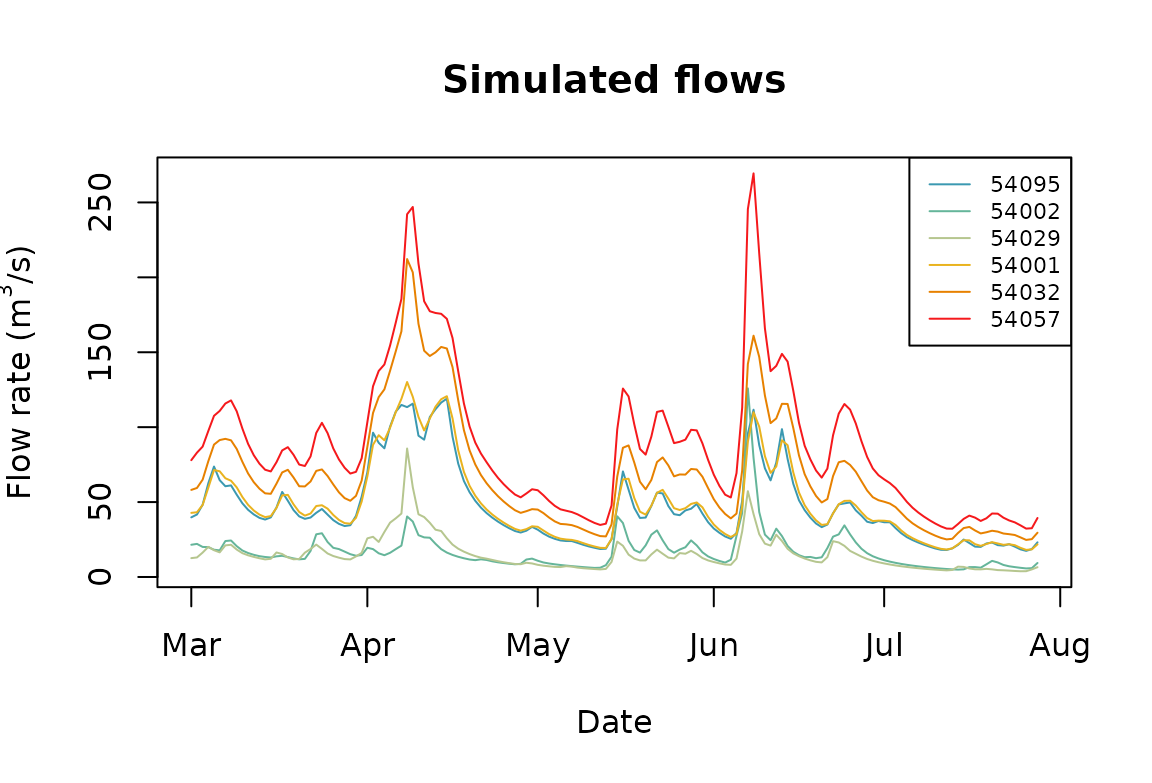
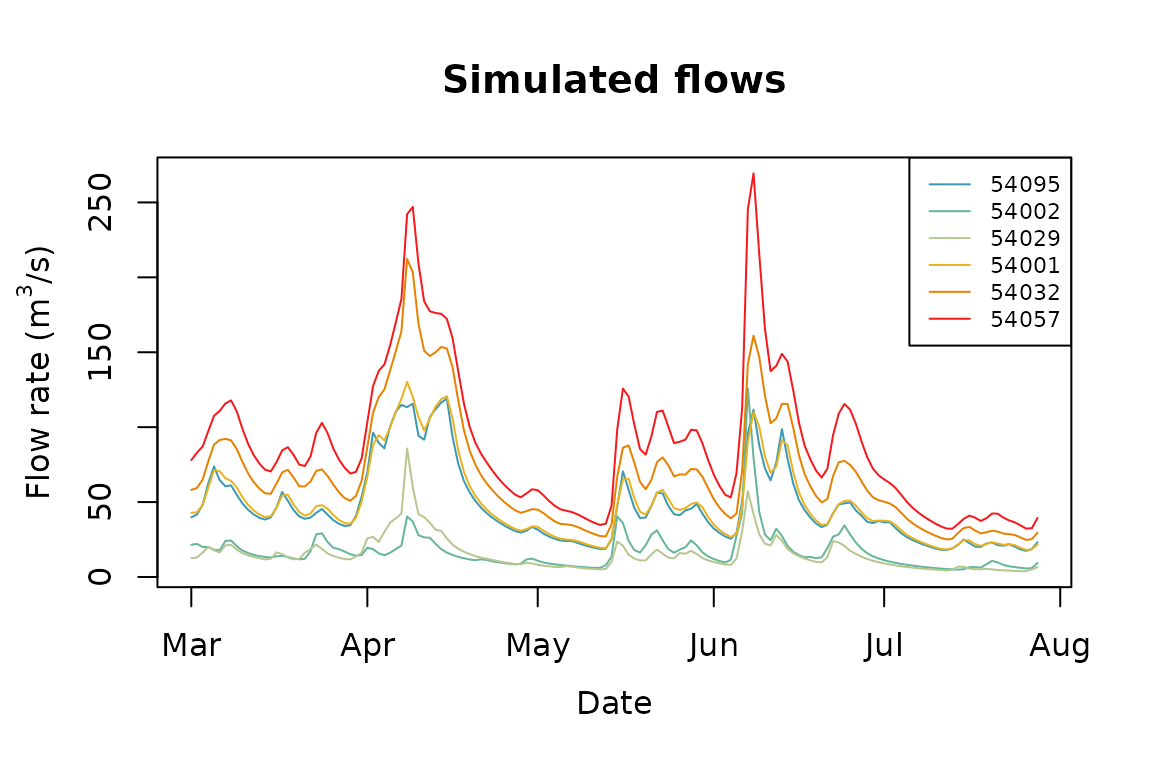
Deploying to gh-pages from @ inrae/airGRiwrm@dd845ad1c4ce55d06f285f82d5235b8c9ff8b56b 🚀

Changed region(s): [[0.0, 0.3065, 0.0625, 0.6437], [0.5, 0.8889, 0.5625, 0.9502]]

diff --git a/dev/reference/RunModel.GRiwrmInputsModel.html b/dev/reference/RunModel.GRiwrmInputsModel.html
@@ -160,8 +160,14 @@
 </dl></div>
     <div id="value">
     <h2>Value</h2>
-    <p>An object of class <em>GRiwrmOutputsModel</em>. This object is a <a href="https://rdrr.io/r/base/list.html" class="external-link">list</a> of <em>OutputsModel</em> objects produced by <a href="RunModel.InputsModel.html">RunModel.InputsModel</a> for each node of the semi-distributed model.</p>
-    </div>
+    <p>An object of class <em>GRiwrmOutputsModel</em>.
+This object is a <a href="https://rdrr.io/r/base/list.html" class="external-link">list</a> of <em>OutputsModel</em> objects produced by <a href="RunModel.InputsModel.html">RunModel.InputsModel</a>
+for each node of the semi-distributed model.</p>
+<p>It also contains the following attributes (see <a href="https://rdrr.io/r/base/attr.html" class="external-link">attr</a>):</p><ul><li><p>"Qm3s": a <a href="https://rdrr.io/r/base/data.frame.html" class="external-link">data.frame</a> containing the dates of simulation and one column by node
+with the simulated flows in cubic meters per seconds (See <a href="plot.Qm3s.html">plot.Qm3s</a>)</p></li>
+<li><p>"GRiwrm":  a copy of the <em>GRiwrm</em> object produced by <a href="CreateGRiwrm.html">CreateGRiwrm</a> and used for the simulation</p></li>
+<li><p>"TimeStep":  time step of the simulation in seconds</p></li>
+</ul></div>
     <div id="see-also">
     <h2>See also</h2>
     <div class="dont-index"><p><code><a href="CreateGRiwrm.html">CreateGRiwrm()</a></code>, <code><a href="CreateInputsModel.GRiwrm.html">CreateInputsModel.GRiwrm()</a></code>, <code><a href="CreateRunOptions.html">CreateRunOptions()</a></code></p></div>
@@ -545,7 +551,7 @@
 <span class="r-in"><span><span class="fu"><a href="https://rdrr.io/r/base/names.html" class="external-link">names</a></span><span class="op">(</span><span class="va">df54001</span><span class="op">)</span> <span class="op">&lt;-</span> <span class="fu"><a href="https://rdrr.io/r/base/c.html" class="external-link">c</a></span><span class="op">(</span><span class="st">"DatesR"</span>, <span class="st">"54001 with irrigation"</span>, <span class="st">"54001 natural flow"</span><span class="op">)</span></span></span>
 <span class="r-in"><span><span class="va">df54001</span> <span class="op">&lt;-</span> <span class="fu"><a href="as.Qm3s.html">as.Qm3s</a></span><span class="op">(</span><span class="va">df54001</span><span class="op">)</span></span></span>
 <span class="r-in"><span><span class="fu"><a href="https://rdrr.io/r/graphics/plot.default.html" class="external-link">plot</a></span><span class="op">(</span><span class="va">df54001</span>, ylim <span class="op">=</span> <span class="fu"><a href="https://rdrr.io/r/base/c.html" class="external-link">c</a></span><span class="op">(</span><span class="fl">0</span>,<span class="fl">70</span><span class="op">)</span><span class="op">)</span></span></span>
-<span class="r-in"><span><span class="fu"><a href="https://rdrr.io/r/graphics/abline.html" class="external-link">abline</a></span><span class="op">(</span>h <span class="op">=</span> <span class="fl">12</span>, col <span class="op">=</span> <span class="st">"green"</span><span class="op">)</span></span></span>
+<span class="r-in"><span><span class="fu"><a href="https://rdrr.io/r/graphics/abline.html" class="external-link">abline</a></span><span class="op">(</span>h <span class="op">=</span> <span class="fl">12</span>, col <span class="op">=</span> <span class="st">"green"</span>, lty <span class="op">=</span> <span class="st">"dotted"</span><span class="op">)</span></span></span>
 <span class="r-plt img"><img src="RunModel.GRiwrmInputsModel-7.png" alt="" width="700" height="433"></span>
 <span class="r-in"><span><span class="fu"><a href="https://rdrr.io/r/graphics/par.html" class="external-link">par</a></span><span class="op">(</span><span class="va">oldpar</span><span class="op">)</span></span></span>
 </code></pre></div>

diff --git a/dev/reference/plot.Qm3s.html b/dev/reference/plot.Qm3s.html
@@ -151,6 +151,7 @@ as a function <code>plot.Qm3s</code> if the first parameter has the good format.
 <span>  legend.x <span class="op">=</span> <span class="st">"topright"</span>,</span>
 <span>  legend.y <span class="op">=</span> <span class="cn">NULL</span>,</span>
 <span>  lty <span class="op">=</span> <span class="fl">1</span>,</span>
+<span>  mgp <span class="op">=</span> <span class="fu"><a href="https://rdrr.io/r/base/c.html" class="external-link">c</a></span><span class="op">(</span><span class="fl">2.5</span>, <span class="fl">1</span>, <span class="fl">0</span><span class="op">)</span>,</span>
 <span>  <span class="va">...</span></span>
 <span><span class="op">)</span></span></code></pre></div>
     </div>
@@ -199,6 +200,10 @@ to hide the legend</p></dd>
 
 <dt id="arg-lty">lty<a class="anchor" aria-label="anchor" href="#arg-lty"></a></dt>
 <dd><p><a href="https://rdrr.io/r/base/character.html" class="external-link">character</a> or <a href="https://rdrr.io/r/base/numeric.html" class="external-link">numeric</a> The line type (See <a href="https://rdrr.io/r/graphics/par.html" class="external-link">par</a>)</p></dd>
+
+
+<dt id="arg-mgp">mgp<a class="anchor" aria-label="anchor" href="#arg-mgp"></a></dt>
+<dd><p>The margin line for the axis title, axis labels and axis line (See <a href="https://rdrr.io/r/graphics/par.html" class="external-link">par</a>)</p></dd>
 
 
 <dt id="arg--">...<a class="anchor" aria-label="anchor" href="#arg--"></a></dt>
@@ -588,7 +593,7 @@ to hide the legend</p></dd>
 <span class="r-in"><span><span class="fu"><a href="https://rdrr.io/r/base/names.html" class="external-link">names</a></span><span class="op">(</span><span class="va">df54001</span><span class="op">)</span> <span class="op">&lt;-</span> <span class="fu"><a href="https://rdrr.io/r/base/c.html" class="external-link">c</a></span><span class="op">(</span><span class="st">"DatesR"</span>, <span class="st">"54001 with irrigation"</span>, <span class="st">"54001 natural flow"</span><span class="op">)</span></span></span>
 <span class="r-in"><span><span class="va">df54001</span> <span class="op">&lt;-</span> <span class="fu"><a href="as.Qm3s.html">as.Qm3s</a></span><span class="op">(</span><span class="va">df54001</span><span class="op">)</span></span></span>
 <span class="r-in"><span><span class="fu"><a href="https://rdrr.io/r/graphics/plot.default.html" class="external-link">plot</a></span><span class="op">(</span><span class="va">df54001</span>, ylim <span class="op">=</span> <span class="fu"><a href="https://rdrr.io/r/base/c.html" class="external-link">c</a></span><span class="op">(</span><span class="fl">0</span>,<span class="fl">70</span><span class="op">)</span><span class="op">)</span></span></span>
-<span class="r-in"><span><span class="fu"><a href="https://rdrr.io/r/graphics/abline.html" class="external-link">abline</a></span><span class="op">(</span>h <span class="op">=</span> <span class="fl">12</span>, col <span class="op">=</span> <span class="st">"green"</span><span class="op">)</span></span></span>
+<span class="r-in"><span><span class="fu"><a href="https://rdrr.io/r/graphics/abline.html" class="external-link">abline</a></span><span class="op">(</span>h <span class="op">=</span> <span class="fl">12</span>, col <span class="op">=</span> <span class="st">"green"</span>, lty <span class="op">=</span> <span class="st">"dotted"</span><span class="op">)</span></span></span>
 <span class="r-plt img"><img src="plot.Qm3s-7.png" alt="" width="700" height="433"></span>
 <span class="r-in"><span><span class="fu"><a href="https://rdrr.io/r/graphics/par.html" class="external-link">par</a></span><span class="op">(</span><span class="va">oldpar</span><span class="op">)</span></span></span>
 </code></pre></div>

diff --git a/dev/reference/RunModel.InputsModel.html b/dev/reference/RunModel.InputsModel.html
@@ -168,18 +168,16 @@
 </dl></div>
     <div id="value">
     <h2>Value</h2>
-    <p>[list] see <code><a href="https://rdrr.io/pkg/airGR/man/RunModel_GR4J.html" class="external-link">RunModel_GR4J</a></code> or <code><a href="https://rdrr.io/pkg/airGR/man/RunModel_CemaNeigeGR4J.html" class="external-link">RunModel_CemaNeigeGR4J</a></code> for details.</p>
-<p>If <code>InputsModel</code> parameter has been created for using a semi-distributed (SD) lag model (See <code><a href="https://rdrr.io/pkg/airGR/man/CreateInputsModel.html" class="external-link">CreateInputsModel</a></code>), the list value contains an extra item named <code>QsimDown</code> which is a numeric series of simulated discharge [mm/time step] related to the run-off contribution of the downstream sub-catchment.</p>
-    </div>
-    <div id="details">
-    <h2>Details</h2>
-    <p>This function calls <a href="https://rdrr.io/pkg/airGR/man/RunModel.html" class="external-link">airGR::RunModel</a> (See <a href="https://rdrr.io/pkg/airGR/man/RunModel.html" class="external-link">airGR::RunModel</a> for further details).</p>
-<p>The list produced by the function (See Value section of <a href="https://rdrr.io/pkg/airGR/man/RunModel_GR4J.html" class="external-link">airGR::RunModel_GR4J</a>)
-is here completed by:</p><ul><li><p>an item <code>$Qsim_m3</code> storing the simulated discharge series in m3/s</p></li>
-<li><p>an item <code>$Qover_m3</code> storing the volumes of over abstraction which occurs
-when <code>RunModel_Lag</code> warns for negative simulated flows. The latter reflects the volume
-that was planned to be drawn from the sub-basin but could not be drawn because
-of the lack of water.</p></li>
+    <p>[object of class <em>OutputsModel</em>] returned by <a href="https://rdrr.io/pkg/airGR/man/RunModel.html" class="external-link">airGR::RunModel</a>
+(See Value section of <a href="https://rdrr.io/pkg/airGR/man/RunModel_GR4J.html" class="external-link">airGR::RunModel_GR4J</a>) completed by new items:</p><ul><li><p><code>Qsim_m3</code>: simulated flow in cubic meters per time step</p></li>
+<li><p><code>Qover_m3</code> volumes of over abstractions which occurs when <code>RunModel_Lag</code> warns
+for negative simulated flows</p></li>
+<li><p><code>Qnat</code>: only present in case of Diversion in the node, simulated flow in mm
+per time step before application of the Diversion</p></li>
+<li><p><code>Qdiv_m3</code>: only present in case of Diversion in the node, simulated diverted flow in
+cubic meters per time step. The latter differs from the flows time series provided
+in argument <code>Qinf</code> of <a href="CreateInputsModel.GRiwrm.html">CreateInputsModel.GRiwrm</a> by the limitation of diversion
+applied by the minimum flow threshold <code>Qmin</code> to keep flowing in the river</p></li>
 </ul></div>
 
   </div>

diff --git a/dev/reference/plot.GRiwrmOutputsModel.html b/dev/reference/plot.GRiwrmOutputsModel.html
@@ -543,7 +543,7 @@ by hydrological model output named with the node ID (See <a href="CreateGRiwrm.h
 <span class="r-in"><span><span class="fu"><a href="https://rdrr.io/r/base/names.html" class="external-link">names</a></span><span class="op">(</span><span class="va">df54001</span><span class="op">)</span> <span class="op">&lt;-</span> <span class="fu"><a href="https://rdrr.io/r/base/c.html" class="external-link">c</a></span><span class="op">(</span><span class="st">"DatesR"</span>, <span class="st">"54001 with irrigation"</span>, <span class="st">"54001 natural flow"</span><span class="op">)</span></span></span>
 <span class="r-in"><span><span class="va">df54001</span> <span class="op">&lt;-</span> <span class="fu"><a href="as.Qm3s.html">as.Qm3s</a></span><span class="op">(</span><span class="va">df54001</span><span class="op">)</span></span></span>
 <span class="r-in"><span><span class="fu"><a href="https://rdrr.io/r/graphics/plot.default.html" class="external-link">plot</a></span><span class="op">(</span><span class="va">df54001</span>, ylim <span class="op">=</span> <span class="fu"><a href="https://rdrr.io/r/base/c.html" class="external-link">c</a></span><span class="op">(</span><span class="fl">0</span>,<span class="fl">70</span><span class="op">)</span><span class="op">)</span></span></span>
-<span class="r-in"><span><span class="fu"><a href="https://rdrr.io/r/graphics/abline.html" class="external-link">abline</a></span><span class="op">(</span>h <span class="op">=</span> <span class="fl">12</span>, col <span class="op">=</span> <span class="st">"green"</span><span class="op">)</span></span></span>
+<span class="r-in"><span><span class="fu"><a href="https://rdrr.io/r/graphics/abline.html" class="external-link">abline</a></span><span class="op">(</span>h <span class="op">=</span> <span class="fl">12</span>, col <span class="op">=</span> <span class="st">"green"</span>, lty <span class="op">=</span> <span class="st">"dotted"</span><span class="op">)</span></span></span>
 <span class="r-plt img"><img src="plot.GRiwrmOutputsModel-7.png" alt="" width="700" height="433"></span>
 <span class="r-in"><span><span class="fu"><a href="https://rdrr.io/r/graphics/par.html" class="external-link">par</a></span><span class="op">(</span><span class="va">oldpar</span><span class="op">)</span></span></span>
 </code></pre></div>

diff --git a/dev/reference/CreateInputsModel.GRiwrm.html b/dev/reference/CreateInputsModel.GRiwrm.html
@@ -659,7 +659,7 @@ a time step defined in <code>DatesR</code>).</p>
 <span class="r-in"><span><span class="fu"><a href="https://rdrr.io/r/base/names.html" class="external-link">names</a></span><span class="op">(</span><span class="va">df54001</span><span class="op">)</span> <span class="op">&lt;-</span> <span class="fu"><a href="https://rdrr.io/r/base/c.html" class="external-link">c</a></span><span class="op">(</span><span class="st">"DatesR"</span>, <span class="st">"54001 with irrigation"</span>, <span class="st">"54001 natural flow"</span><span class="op">)</span></span></span>
 <span class="r-in"><span><span class="va">df54001</span> <span class="op">&lt;-</span> <span class="fu"><a href="as.Qm3s.html">as.Qm3s</a></span><span class="op">(</span><span class="va">df54001</span><span class="op">)</span></span></span>
 <span class="r-in"><span><span class="fu"><a href="https://rdrr.io/r/graphics/plot.default.html" class="external-link">plot</a></span><span class="op">(</span><span class="va">df54001</span>, ylim <span class="op">=</span> <span class="fu"><a href="https://rdrr.io/r/base/c.html" class="external-link">c</a></span><span class="op">(</span><span class="fl">0</span>,<span class="fl">70</span><span class="op">)</span><span class="op">)</span></span></span>
-<span class="r-in"><span><span class="fu"><a href="https://rdrr.io/r/graphics/abline.html" class="external-link">abline</a></span><span class="op">(</span>h <span class="op">=</span> <span class="fl">12</span>, col <span class="op">=</span> <span class="st">"green"</span><span class="op">)</span></span></span>
+<span class="r-in"><span><span class="fu"><a href="https://rdrr.io/r/graphics/abline.html" class="external-link">abline</a></span><span class="op">(</span>h <span class="op">=</span> <span class="fl">12</span>, col <span class="op">=</span> <span class="st">"green"</span>, lty <span class="op">=</span> <span class="st">"dotted"</span><span class="op">)</span></span></span>
 <span class="r-plt img"><img src="CreateInputsModel.GRiwrm-7.png" alt="" width="700" height="433"></span>
 <span class="r-in"><span><span class="fu"><a href="https://rdrr.io/r/graphics/par.html" class="external-link">par</a></span><span class="op">(</span><span class="va">oldpar</span><span class="op">)</span></span></span>
 </code></pre></div>

diff --git a/dev/reference/CreateRunOptions.html b/dev/reference/CreateRunOptions.html
@@ -569,7 +569,7 @@ sub-catchments of the network.</p>
 <span class="r-in"><span><span class="fu"><a href="https://rdrr.io/r/base/names.html" class="external-link">names</a></span><span class="op">(</span><span class="va">df54001</span><span class="op">)</span> <span class="op">&lt;-</span> <span class="fu"><a href="https://rdrr.io/r/base/c.html" class="external-link">c</a></span><span class="op">(</span><span class="st">"DatesR"</span>, <span class="st">"54001 with irrigation"</span>, <span class="st">"54001 natural flow"</span><span class="op">)</span></span></span>
 <span class="r-in"><span><span class="va">df54001</span> <span class="op">&lt;-</span> <span class="fu"><a href="as.Qm3s.html">as.Qm3s</a></span><span class="op">(</span><span class="va">df54001</span><span class="op">)</span></span></span>
 <span class="r-in"><span><span class="fu"><a href="https://rdrr.io/r/graphics/plot.default.html" class="external-link">plot</a></span><span class="op">(</span><span class="va">df54001</span>, ylim <span class="op">=</span> <span class="fu"><a href="https://rdrr.io/r/base/c.html" class="external-link">c</a></span><span class="op">(</span><span class="fl">0</span>,<span class="fl">70</span><span class="op">)</span><span class="op">)</span></span></span>
-<span class="r-in"><span><span class="fu"><a href="https://rdrr.io/r/graphics/abline.html" class="external-link">abline</a></span><span class="op">(</span>h <span class="op">=</span> <span class="fl">12</span>, col <span class="op">=</span> <span class="st">"green"</span><span class="op">)</span></span></span>
+<span class="r-in"><span><span class="fu"><a href="https://rdrr.io/r/graphics/abline.html" class="external-link">abline</a></span><span class="op">(</span>h <span class="op">=</span> <span class="fl">12</span>, col <span class="op">=</span> <span class="st">"green"</span>, lty <span class="op">=</span> <span class="st">"dotted"</span><span class="op">)</span></span></span>
 <span class="r-plt img"><img src="CreateRunOptions-7.png" alt="" width="700" height="433"></span>
 <span class="r-in"><span><span class="fu"><a href="https://rdrr.io/r/graphics/par.html" class="external-link">par</a></span><span class="op">(</span><span class="va">oldpar</span><span class="op">)</span></span></span>
 </code></pre></div>

diff --git a/dev/reference/mermaid.html b/dev/reference/mermaid.html
@@ -225,7 +225,7 @@ in mermaid script), the functions raises no error (see <code>mermaid</code> retu
 <span class="r-out co"><span class="r-pr">#&gt;</span> [1] "https://mermaid.ink/img/pako:eNqrVkrOT0lVslJKy8kvT85ILCpR8AmKyVNQcFTQ1bVTcFLSUcpNLcpNzExRsqpWKslIzQUpTklNSyzNKVGqrQUAjIcUfg?type=png"</span>
 <span class="r-in"><span><span class="va">f</span> <span class="op">&lt;-</span> <span class="fu">mermaid</span><span class="op">(</span><span class="va">diagram</span><span class="op">)</span></span></span>
 <span class="r-in"><span><span class="va">f</span></span></span>
-<span class="r-out co"><span class="r-pr">#&gt;</span> [1] "/tmp/RtmpXr3XOw/a0a48ce294b1a6f989506ce145809601.png"</span>
+<span class="r-out co"><span class="r-pr">#&gt;</span> [1] "/tmp/RtmpoEMykr/a0a48ce294b1a6f989506ce145809601.png"</span>
 <span class="r-in"><span><span class="kw">if</span> <span class="op">(</span><span class="cn">FALSE</span><span class="op">)</span> <span class="op">{</span> <span class="co"># \dontrun{</span></span></span>
 <span class="r-in"><span><span class="co"># For displaying the diagram in Rmarkdown document</span></span></span>
 <span class="r-in"><span><span class="fu">knitr</span><span class="fu">::</span><span class="fu"><a href="https://rdrr.io/pkg/knitr/man/include_graphics.html" class="external-link">include_graphics</a></span><span class="op">(</span><span class="fu">mermaid</span><span class="op">(</span><span class="va">diagram</span><span class="op">)</span><span class="op">)</span></span></span>

diff --git a/dev/articles/V04_Closed-loop_regulated_withdrawal.html b/dev/articles/V04_Closed-loop_regulated_withdrawal.html
@@ -582,7 +582,7 @@ function with:</p>
 <div class="sourceCode" id="cb16"><pre class="downlit sourceCode r">
 <code class="sourceCode R"><span><span class="fu"><a href="https://rdrr.io/r/utils/str.html" class="external-link">str</a></span><span class="op">(</span><span class="fu"><a href="https://rdrr.io/r/base/list.html" class="external-link">as.list</a></span><span class="op">(</span><span class="fu"><a href="https://rdrr.io/r/base/environment.html" class="external-link">environment</a></span><span class="op">(</span><span class="va">fIrrigation</span><span class="op">)</span><span class="op">)</span><span class="op">)</span></span>
 <span><span class="co">#&gt; List of 4</span></span>
-<span><span class="co">#&gt;  $ supervisor          :Classes 'Supervisor', 'environment' &lt;environment: 0x55bd0c08a480&gt; </span></span>
+<span><span class="co">#&gt;  $ supervisor          :Classes 'Supervisor', 'environment' &lt;environment: 0x55f3a7202018&gt; </span></span>
 <span><span class="co">#&gt;  $ irrigationObjective :'data.frame':    12 obs. of  4 variables:</span></span>
 <span><span class="co">#&gt;   ..$ month: num [1:12] 1 2 3 4 5 6 7 8 9 10 ...</span></span>
 <span><span class="co">#&gt;   ..$ 54001: num [1:12] 0 0 0.4 0.8 1 1.2 1.2 1 0.6 0 ...</span></span>

diff --git a/dev/reference/RunModel_Reservoir.html b/dev/reference/RunModel_Reservoir.html
@@ -161,8 +161,16 @@ of the reservoir and (2) the celerity in m/s of the upstream inflows.</p></dd>
     <div id="value">
     <h2>Value</h2>
     <p>An <em>OutputsModel</em> object like the one return by <a href="https://rdrr.io/pkg/airGR/man/RunModel.html" class="external-link">airGR::RunModel</a> but
-completed with an item <code>Vsim</code> representing the water volume time series in m3.</p>
-    </div>
+completed with the items:</p><ul><li><p><code>Vsim</code>: representing the water volume time series in m3</p></li>
+<li><p><code>Qsim_m3</code>: flow released by the reservoir in cubic meters by time step
+(see Details)</p></li>
+<li><p><code>Qdiv_m3</code>: only present in case of Diversion in the node, diverted flow in
+cubic meters per time step. The latter differs from the flows time series provided
+in argument <code>Qinf</code> of <a href="CreateInputsModel.GRiwrm.html">CreateInputsModel.GRiwrm</a> by the limitation due to an
+empty reservoir</p></li>
+<li><p><code>Qover_m3</code>: only present in case of Diversion in the node, diverted volumes
+that cannot be operated due to an empty reservoir</p></li>
+</ul></div>
     <div id="details">
     <h2>Details</h2>
     <p>The simulated flow corresponds to the released flow except when the reservoir
